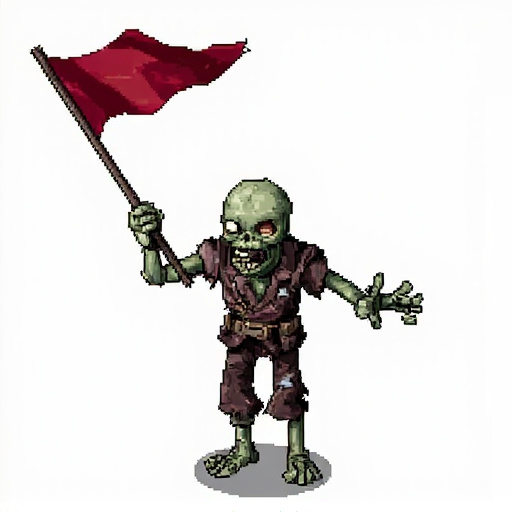
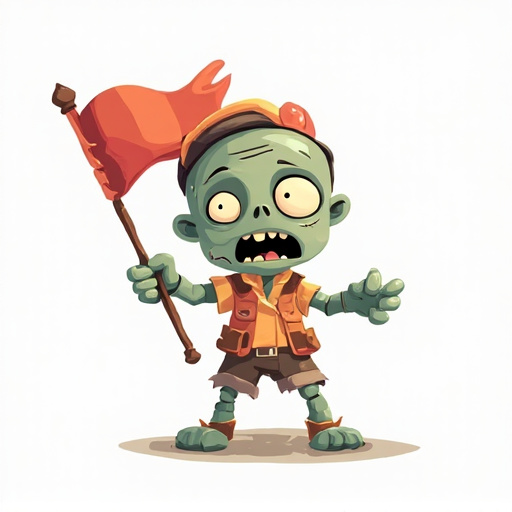
feat: replace zombie sprites with cute cartoon versions
- Regenerated zombie_normal and zombie_flag with cute kid-friendly designs
- Adorable friendly zombies with big eyes and smiling faces
- Pastel colors, no scary elements
- Version bump to v5.28.3

diff --git a/src/ui/App.vue b/src/ui/App.vue
@@ -172,7 +172,7 @@ onUnmounted(() => {
       @start="onStartGame"
     />
 
-    <div class="version-label">v5.28.1</div>
+    <div class="version-label">v5.28.3</div>
   </div>
 </template>
 
